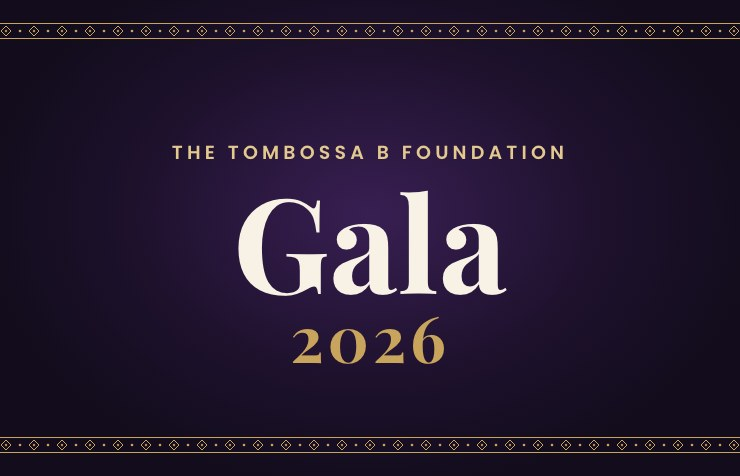
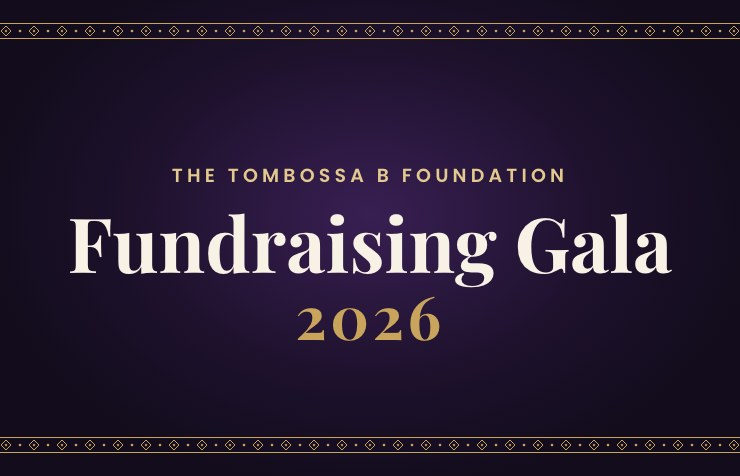
Rename to Fundraising Gala, add announcement line, polish mobile hero and slide

Changed region(s): [[0.0932, 0.2941, 0.9014, 0.7647]]

diff --git a/frontend/config/gala-2026.js b/frontend/config/gala-2026.js
@@ -14,7 +14,7 @@
 // so don't also add it as a Flyway seed (it would show twice).
 export const gala = {
     canonicalUrl: 'https://tombossabfoundation.org/gala',
-    name: 'The Tombossa B Foundation Gala',
+    name: 'The Tombossa B Foundation Fundraising Gala',
     year: 2026,
     tagline: 'Two Years of Legacy', // TODO_CONFIRM (proposed; hidden if null)
     dateDisplay: 'Saturday, November 28, 2026',
@@ -40,6 +40,9 @@ export const gala = {
     },
 
     copy: {
+        // Small line above the title (homepage slide + /gala hero), shown only
+        // until ticket sales close: "announcing" reads stale on the day itself.
+        kicker: 'Announcing a new annual tradition',
         // Hero intro, one string per paragraph. If program.speakers is still
         // empty at launch, "words from the students your support makes possible"
         // can be swapped for "inspiring speakers" here.
@@ -55,12 +58,12 @@ export const gala = {
             showUntil: '2026-12-02T23:59:59-06:00',
         },
         shareText:
-            'Join me at the Tombossa B Foundation Gala on Saturday, November 28! Every ticket supports scholarships for Eritrean and East African youth.',
+            'Join me at the Tombossa B Foundation Fundraising Gala on Saturday, November 28! Every ticket supports scholarships for Eritrean and East African youth.',
     },
 
     // The homepage gala slide. It removes itself (client-side) after removeAfter.
     homeSlide: {
-        eyebrow: 'Saturday, November 28, 2026 · Dallas',
+        dateLine: 'Saturday, November 28, 2026 · Dallas', // under the title (no time on the slide)
         subline: 'Two years of legacy. One unforgettable night for our scholars.',
         closedSubline: 'Online sales have closed. See you tonight!', // sales close the morning of the gala
         pastSubline: 'Thank you for an unforgettable night.',
@@ -97,7 +100,7 @@ export const gala = {
                 fmvKey: 'standard',
                 includes: ['Dinner', 'The full program', 'One drink ticket'],
                 tagline: "Because the future we're building should be in the room.",
-                note: 'For current students and guests under 17.',
+                note: 'For current students and guests 17 and younger.',
             },
             {
                 id: 'ga',
@@ -226,7 +229,7 @@ export const gala = {
         dietary:             // TODO_CONFIRM with caterer
             'Yes. Let us know your dietary needs (vegan/fasting, vegetarian, or allergies) during checkout.',
         studentEligibility:  // TODO_CONFIRM (proposed student wording)
-            'Any current high school, college, or graduate student, and any guest under 17. No ID needed: we check everyone in by the QR code on their ticket.',
+            'Any current high school, college, or graduate student, and any guest 17 or younger. No ID needed: we check everyone in by the QR code on their ticket.',
         // Check-in is by QR code ticket; no ID at the door unless a guest can't find their QR code.
         checkIn:
             "Just your ticket's QR code, on your phone or printed. Can't find it? No problem: we'll look you up by name at check-in.",

diff --git a/frontend/components/SliderOne.js b/frontend/components/SliderOne.js
@@ -12,14 +12,14 @@ import { Pagination, Autoplay } from 'swiper/modules';
 
 import useGalaState from './gala/useGalaState';
 import { gala } from '../config/gala-2026';
-import { isAfter } from '../lib/gala';
+import { displayName, isAfter } from '../lib/gala';
 
 // Gala slide copy per gala state (config/gala-2026.js holds the text).
 const GALA_SLIDE = {
-    coming_soon: { subline: gala.homeSlide.subline, primary: 'Learn More', sponsor: true },
-    on_sale: { subline: gala.homeSlide.subline, primary: 'Get Tickets', sponsor: true },
-    online_closed: { subline: gala.homeSlide.closedSubline, primary: 'Event Details', sponsor: false },
-    past: { subline: gala.homeSlide.pastSubline, primary: 'See the Recap', sponsor: false },
+    coming_soon: { subline: gala.homeSlide.subline, primary: 'Learn More', sponsor: true, kicker: true },
+    on_sale: { subline: gala.homeSlide.subline, primary: 'Get Tickets', sponsor: true, kicker: true },
+    online_closed: { subline: gala.homeSlide.closedSubline, primary: 'Event Details', sponsor: false, kicker: false },
+    past: { subline: gala.homeSlide.pastSubline, primary: 'See the Recap', sponsor: false, kicker: false },
 };
 
 const SliderOne = () => {
@@ -62,8 +62,16 @@ const SliderOne = () => {
                                 <div className="slide-item-tablecell">
                                     <div className="container">
                                         <div className="gala-slide">
-                                            <p className="gala-slide__eyebrow">{gala.homeSlide.eyebrow}</p>
-                                            <h2 className="gala-slide__title">{gala.name}</h2>
+                                            {galaSlide.kicker && <p className="gala-slide__eyebrow">{gala.copy.kicker}</p>}
+                                            <h2 className="gala-slide__title">{displayName()}</h2>
+                                            <p className="gala-slide__date">
+                                                {gala.homeSlide.dateLine.split(' · ').map((part, i) => (
+                                                    <React.Fragment key={part}>
+                                                        {i > 0 && <span className="gala-slide__sep"> · </span>}
+                                                        <span className="gala-slide__part">{part}</span>
+                                                    </React.Fragment>
+                                                ))}
+                                            </p>
                                             <p className="gala-slide__subline">{galaSlide.subline}</p>
                                             <div className="gala-slide__ctas">
                                                 <Link href="/gala" className="gala-slide__btn gala-slide__btn--primary">{galaSlide.primary}</Link>

diff --git a/frontend/components/gala/GalaHero.js b/frontend/components/gala/GalaHero.js
@@ -1,6 +1,6 @@
 import React from 'react';
 import { gala } from '../../config/gala-2026';
-import { timeRange } from '../../lib/gala';
+import { displayName, timeRange } from '../../lib/gala';
 import { ShowIn } from './GalaState';
 import Countdown from './Countdown';
 import Motif from './Motif';
@@ -9,28 +9,34 @@ import styles from './Gala.module.css';
 const BEFORE = ['coming_soon', 'on_sale', 'online_closed'];
 
 const GalaHero = () => {
+    // When, where, then the two short details, which pair up side by side on
+    // phones (see .chips in the CSS); `wide` chips take a full row there.
     const chips = [
-        { icon: 'fa-calendar', text: gala.dateDisplay },
-        { icon: 'fa-clock-o', text: timeRange() ?? 'Time to be announced' },
+        { icon: 'fa-calendar', text: gala.dateDisplay, wide: true },
         {
             icon: 'fa-map-marker',
             text: gala.venue.name ? [gala.venue.name, gala.venue.city].filter(Boolean).join(' · ') : 'Venue to be announced',
+            wide: true,
         },
+        { icon: 'fa-clock-o', text: timeRange() ?? 'Time to be announced' },
         { icon: 'fa-diamond', text: gala.dressCode.label },
     ];
 
     return (
         <section id="top" className={`${styles.section} ${styles.ink} ${styles.hero}`}>
             <div className={`${styles.container} ${styles.heroInner}`}>
+                <ShowIn states={['coming_soon', 'on_sale']}>
+                    <p className={styles.eyebrow}>{gala.copy.kicker}</p>
+                </ShowIn>
                 <h1 className={styles.h1}>
-                    {gala.name}
+                    {displayName()}
                     <span className={styles.year}>{gala.year}</span>
                 </h1>
                 {gala.tagline && <p className={styles.tagline}>{gala.tagline}</p>}
 
                 <ul className={styles.chips} aria-label="Event details">
                     {chips.map((chip) => (
-                        <li key={chip.icon} className={styles.chip}>
+                        <li key={chip.icon} className={`${styles.chip} ${chip.wide ? styles.chipWide : ''}`}>
                             <i className={`fa ${chip.icon}`} aria-hidden="true"></i>
                             {chip.text}
                         </li>

diff --git a/frontend/components/gala/Gala.module.css b/frontend/components/gala/Gala.module.css
@@ -231,7 +231,7 @@
 .h1 {
     font-family: var(--gala-display);
     font-weight: 700;
-    font-size: clamp(38px, 6.4vw, 78px);
+    font-size: clamp(34px, 6.4vw, 78px);
     line-height: 1.06;
     color: var(--gala-text-light);
     margin: 0 auto;
@@ -823,8 +823,9 @@
 @media (max-width: 767px) {
     .section { padding: 68px 0; }
     .hero { padding-top: 64px; }
-    /* Clear the site's floating Donate tab on the left edge (kept symmetric). */
-    .heroInner { padding: 0 44px 56px; }
+    /* Clear the site's floating Donate tab on the left edge (kept symmetric).
+       Two classes so it beats the later `.container` padding rule at <= 575px. */
+    .container.heroInner { padding: 0 44px 56px; }
     .heading { margin-bottom: 40px; }
     .ctas .btn { width: 100%; max-width: 360px; }
     .scholar { flex-direction: column; align-items: center; text-align: center; padding: 26px 22px; }
@@ -842,8 +843,28 @@
     .container { padding: 0 16px; }
     .chip { font-size: 14px; }
     .tier, .giveCard { padding-left: 22px; padding-right: 22px; }
+    /* Details as a tidy block: date and venue full width, time + attire paired.
+       It sits below the floating Donate tab, so it reclaims most of the hero's
+       tab-clearance padding (negative side margins) to keep each pill on one line. */
+    .chips {
+        display: grid;
+        grid-template-columns: repeat(2, minmax(0, 1fr));
+        gap: 8px;
+        max-width: 360px;
+        /* Up to 28px past each side, but centered once the 360px cap is reached. */
+        margin: 32px max(-28px, calc((100% - 360px) / 2)) 0;
+    }
+    .chip { justify-content: center; gap: 8px; padding: 9px 10px; font-size: 13.5px; white-space: nowrap; }
+    .chipWide { grid-column: 1 / -1; }
     .shareButtons .btn { flex: 1 1 calc(50% - 12px); padding: 0 14px; }
     .shareButtons .whatsapp { flex-basis: 100%; }
+}
+
+@media (max-width: 380px) {
+    .container.heroInner { padding: 0 40px 48px; }
+    .h1 { font-size: 30px; }
+    .chips { margin-left: max(-26px, calc((100% - 360px) / 2)); margin-right: max(-26px, calc((100% - 360px) / 2)); }
+    .chip { gap: 6px; padding: 8px; font-size: 13px; }
 }
 
 @media (prefers-reduced-motion: reduce) {

diff --git a/frontend/lib/gala.js b/frontend/lib/gala.js
@@ -46,6 +46,10 @@ export const cardTimeLabel = (g = GALA) => {
 
 export const hasVenue = (g = GALA) => Boolean(g.venue.name);
 
+// The name for display in headings: a non-breaking space keeps "Tombossa B"
+// on one line, so wrapping never strands the "B".
+export const displayName = (g = GALA) => g.name.replace('Tombossa B', 'Tombossa\u00a0B');
+
 // "Dallas, TX" (or null)
 export const venueCity = (g = GALA) =>
     g.venue.city ? `${g.venue.city}, ${g.venue.region}` : null;
@@ -285,11 +289,11 @@ export const eventJsonLd = (state = defaultGalaState(), g = GALA) => {
 // Link-preview copy for /gala (app/gala/page.js metadata and the JSON-LD).
 export const GALA_META = {
     title: 'Tombossa B Foundation | Gala 2026 | Tickets & Sponsorship',
-    shareTitle: 'The Tombossa B Foundation Gala · November 28, 2026',
+    shareTitle: 'The Tombossa B Foundation Fundraising Gala · November 28, 2026',
     description:
         'Dinner, music, a silent auction, and inspiring speakers — Saturday, November 28, 2026. Every ticket funds scholarships for Eritrean and East African youth.',
     image: 'https://tombossabfoundation.org/images/gala-2026-og.png',
-    imageAlt: 'The Tombossa B Foundation Gala, Saturday, November 28, 2026, at tombossabfoundation.org/gala',
+    imageAlt: 'The Tombossa B Foundation Fundraising Gala, Saturday, November 28, 2026, at tombossabfoundation.org/gala',
 };
 
 // ---------------------------------------------------------------- launch checklist

diff --git a/frontend/public/css/responsive.css b/frontend/public/css/responsive.css
@@ -1081,12 +1081,20 @@
     .slider-area .gala-slide {
         padding: 110px 44px 40px;
     }
-    .slider-area .gala-slide .gala-slide__eyebrow {
+    .slider-area .gala-slide .gala-slide__eyebrow,
+    .slider-area .gala-slide .gala-slide__date {
         font-size: 12px;
         letter-spacing: 0.16em;
     }
     .slider-area .gala-slide .gala-slide__title {
-        font-size: 40px;
+        font-size: 30px;
+    }
+    /* Date and city on their own lines instead of breaking mid-date. */
+    .slider-area .gala-slide .gala-slide__sep {
+        display: none;
+    }
+    .slider-area .gala-slide .gala-slide__part {
+        display: block;
     }
     .slider-area .gala-slide .gala-slide__subline {
         font-size: 17px;
@@ -1101,7 +1109,18 @@
     }
 }
 @media (max-width:380px) {
+    .slider-area .gala-slide {
+        padding-left: 40px;
+        padding-right: 40px;
+    }
     .slider-area .gala-slide .gala-slide__title {
-        font-size: 34px;
+        font-size: 28px;
+    }
+    .slider-area .gala-slide .gala-slide__subline {
+        font-size: 16px;
+    }
+    .slider-area .gala-slide .gala-slide__btn {
+        padding: 0 16px;
+        font-size: 13px;
     }
 }

diff --git a/frontend/components/GalaEvents.js b/frontend/components/GalaEvents.js
@@ -17,13 +17,13 @@ const GalaEvents = ({ upcoming = [], past = [] }) => {
     const card = {
         slug: null,
         href: '/gala',
-        title: `Tombossa B Foundation Gala ${gala.year}`,
+        title: `${gala.name.replace(/^The /, '')} ${gala.year}`,
         eventDate: gala.eventDate,
         timeLabel: cardTimeLabel(),
         venue: gala.venue.name ?? 'Venue TBA',
         city: venueCity() ?? '',
         image: '/images/gala-2026-card.jpg',
-        imageAlt: `The Tombossa B Foundation Gala, ${gala.dateDisplay}`,
+        imageAlt: `${gala.name}, ${gala.dateDisplay}`,
         tagClass: 'blog__tag-gala',
         cardClass: 'event-card--gala',
         pill: state === 'on_sale' ? 'Tickets on sale' : null,

diff --git a/frontend/components/gala/ShareBar.js b/frontend/components/gala/ShareBar.js
@@ -2,6 +2,7 @@
 
 import React, { useEffect, useState } from 'react';
 import { useGala } from './GalaState';
+import { gala } from '../../config/gala-2026';
 import { calendarReady, googleCalendarUrl, icsContent, shareLinks } from '../../lib/gala';
 import styles from './Gala.module.css';
 
@@ -19,7 +20,7 @@ const ShareBar = () => {
 
     const nativeShare = async () => {
         try {
-            await navigator.share({ title: 'The Tombossa B Foundation Gala', text: LINKS.text, url: LINKS.url });
+            await navigator.share({ title: gala.name, text: LINKS.text, url: LINKS.url });
         } catch { /* dismissed */ }
     };
 

diff --git a/frontend/components/Events.js b/frontend/components/Events.js
@@ -25,7 +25,7 @@ const Events = ({ events = [] }) => {
                 <div className="row blog-content-wrap">
                     {events.map((event) => (
                         <div className="col-lg-4" key={event.slug ?? event.title}>
-                            <EventCard event={event} tagClass="blog__tag1" />
+                            <EventCard event={event} tagClass="blog__tag1" spacedMeta />
                         </div>
                     ))}
                 </div>

diff --git a/frontend/public/css/style.css b/frontend/public/css/style.css
@@ -929,6 +929,18 @@ a:hover {
     margin-bottom: 20px;
     text-wrap: balance;
 }
+.slider-area .gala-slide .gala-slide__part {
+    white-space: nowrap;
+}
+.slider-area .gala-slide .gala-slide__date {
+    font-size: 14px;
+    font-weight: 600;
+    letter-spacing: 0.18em;
+    text-transform: uppercase;
+    color: #F7F1E6;
+    margin-bottom: 18px;
+    text-wrap: balance;
+}
 .slider-area .gala-slide .gala-slide__subline {
     font-size: 20px;
     line-height: 1.6;

diff --git a/docs/gala-2026-launch-checklist.md b/docs/gala-2026-launch-checklist.md
@@ -1,6 +1,6 @@
 # Gala 2026 launch checklist
 
-Manual steps outside the code for **https://tombossabfoundation.org/gala** (Saturday, November 28, 2026, Empire Event Center, Dallas). Everything the site shows comes from `frontend/config/gala-2026.js`; editing that file, then committing and deploying, is all a content change needs.
+Manual steps outside the code for **https://tombossabfoundation.org/gala** (The Tombossa B Foundation Fundraising Gala, Saturday, November 28, 2026, Empire Event Center, Dallas). Everything the site shows comes from `frontend/config/gala-2026.js`; editing that file, then committing and deploying, is all a content change needs.
 
 > The gala ships with the decoupling refactor (Vercel frontend). The live site is still the old nginx build, so none of this is public until the cutover in `deploy/RUNBOOK.md`.
 
@@ -11,7 +11,7 @@ Manual steps outside the code for **https://tombossabfoundation.org/gala** (Satu
 
   | Ticket type | Price | Notes |
   |---|---|---|
-  | Student & Youth | $30 | Current students and guests under 17 |
+  | Student & Youth | $30 | Current students and guests 17 and younger |
   | General Admission | $55 | |
   | Champion | $85 | |
   | Community Sponsor | $500 | 5 seats |
